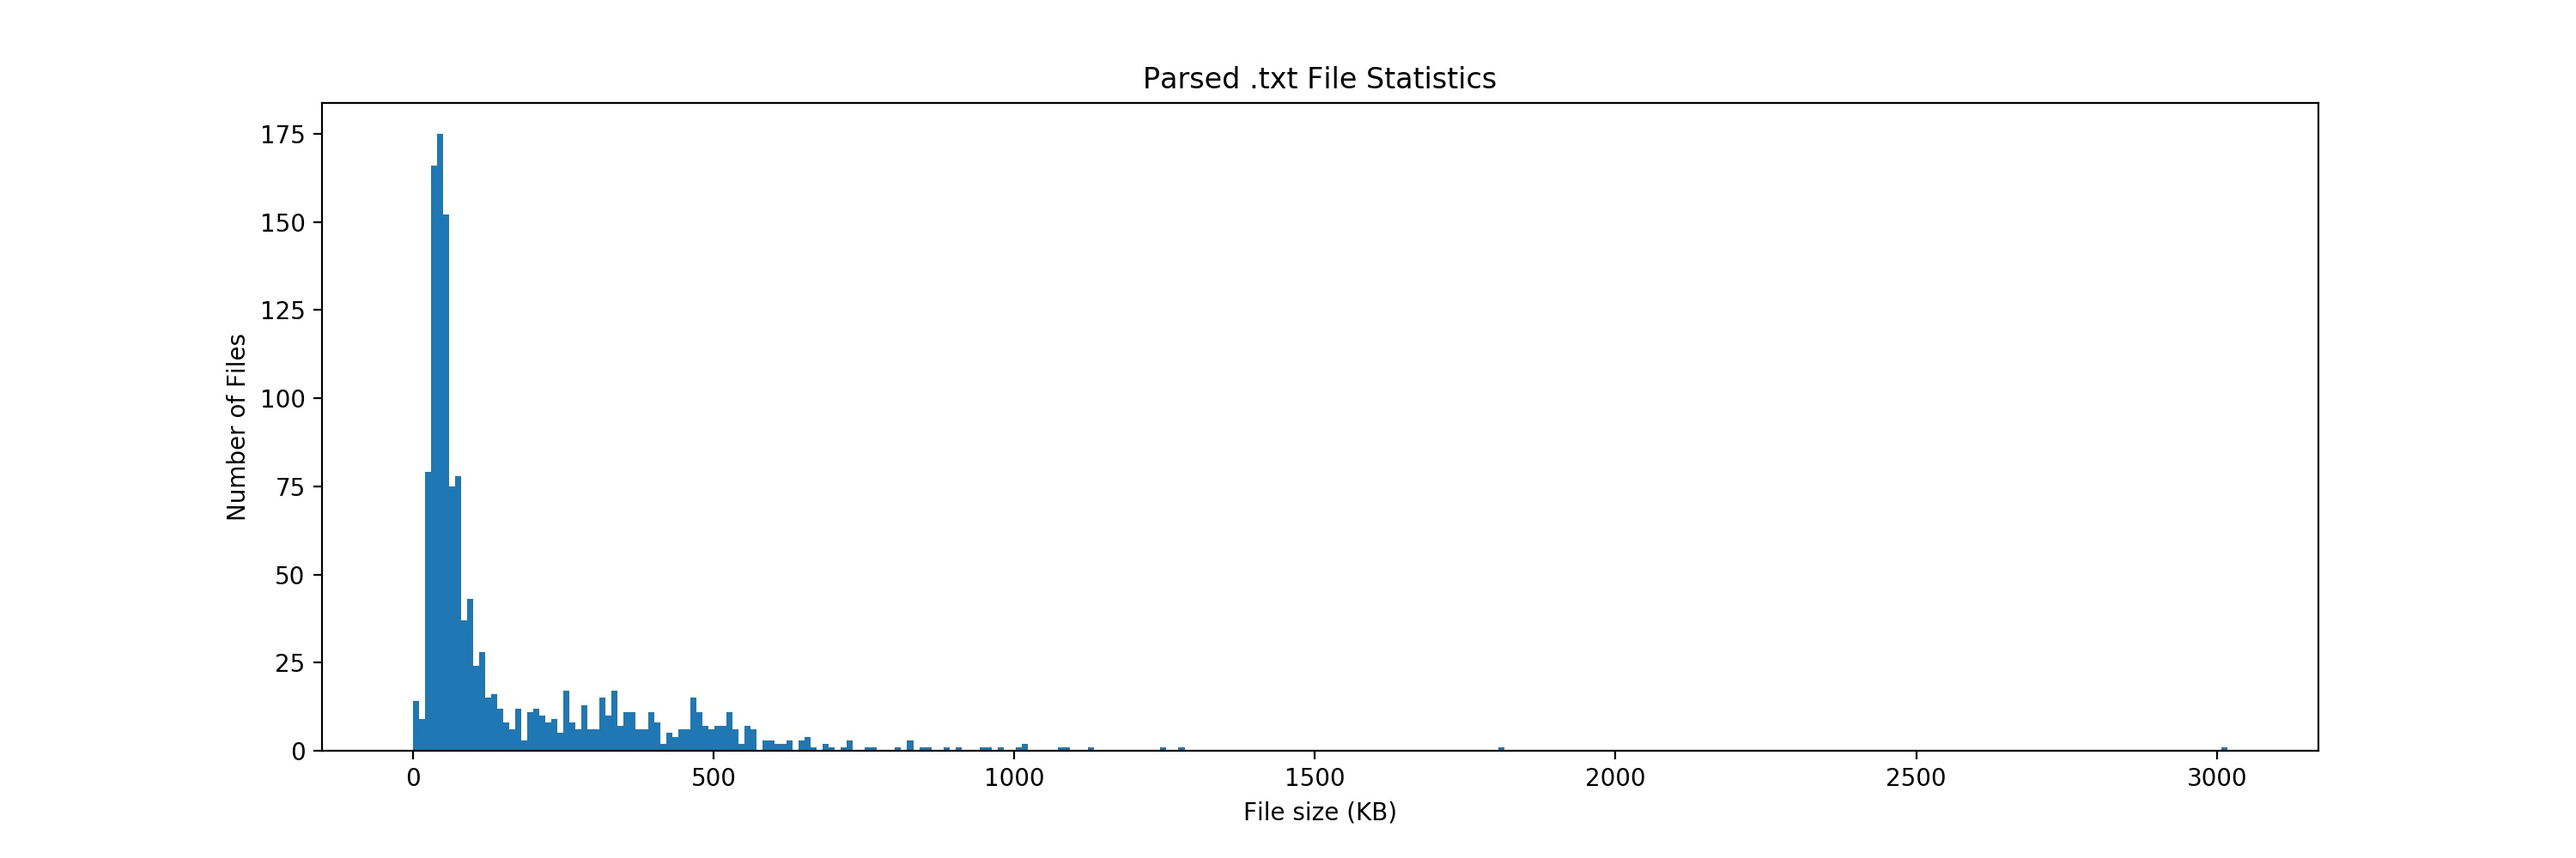
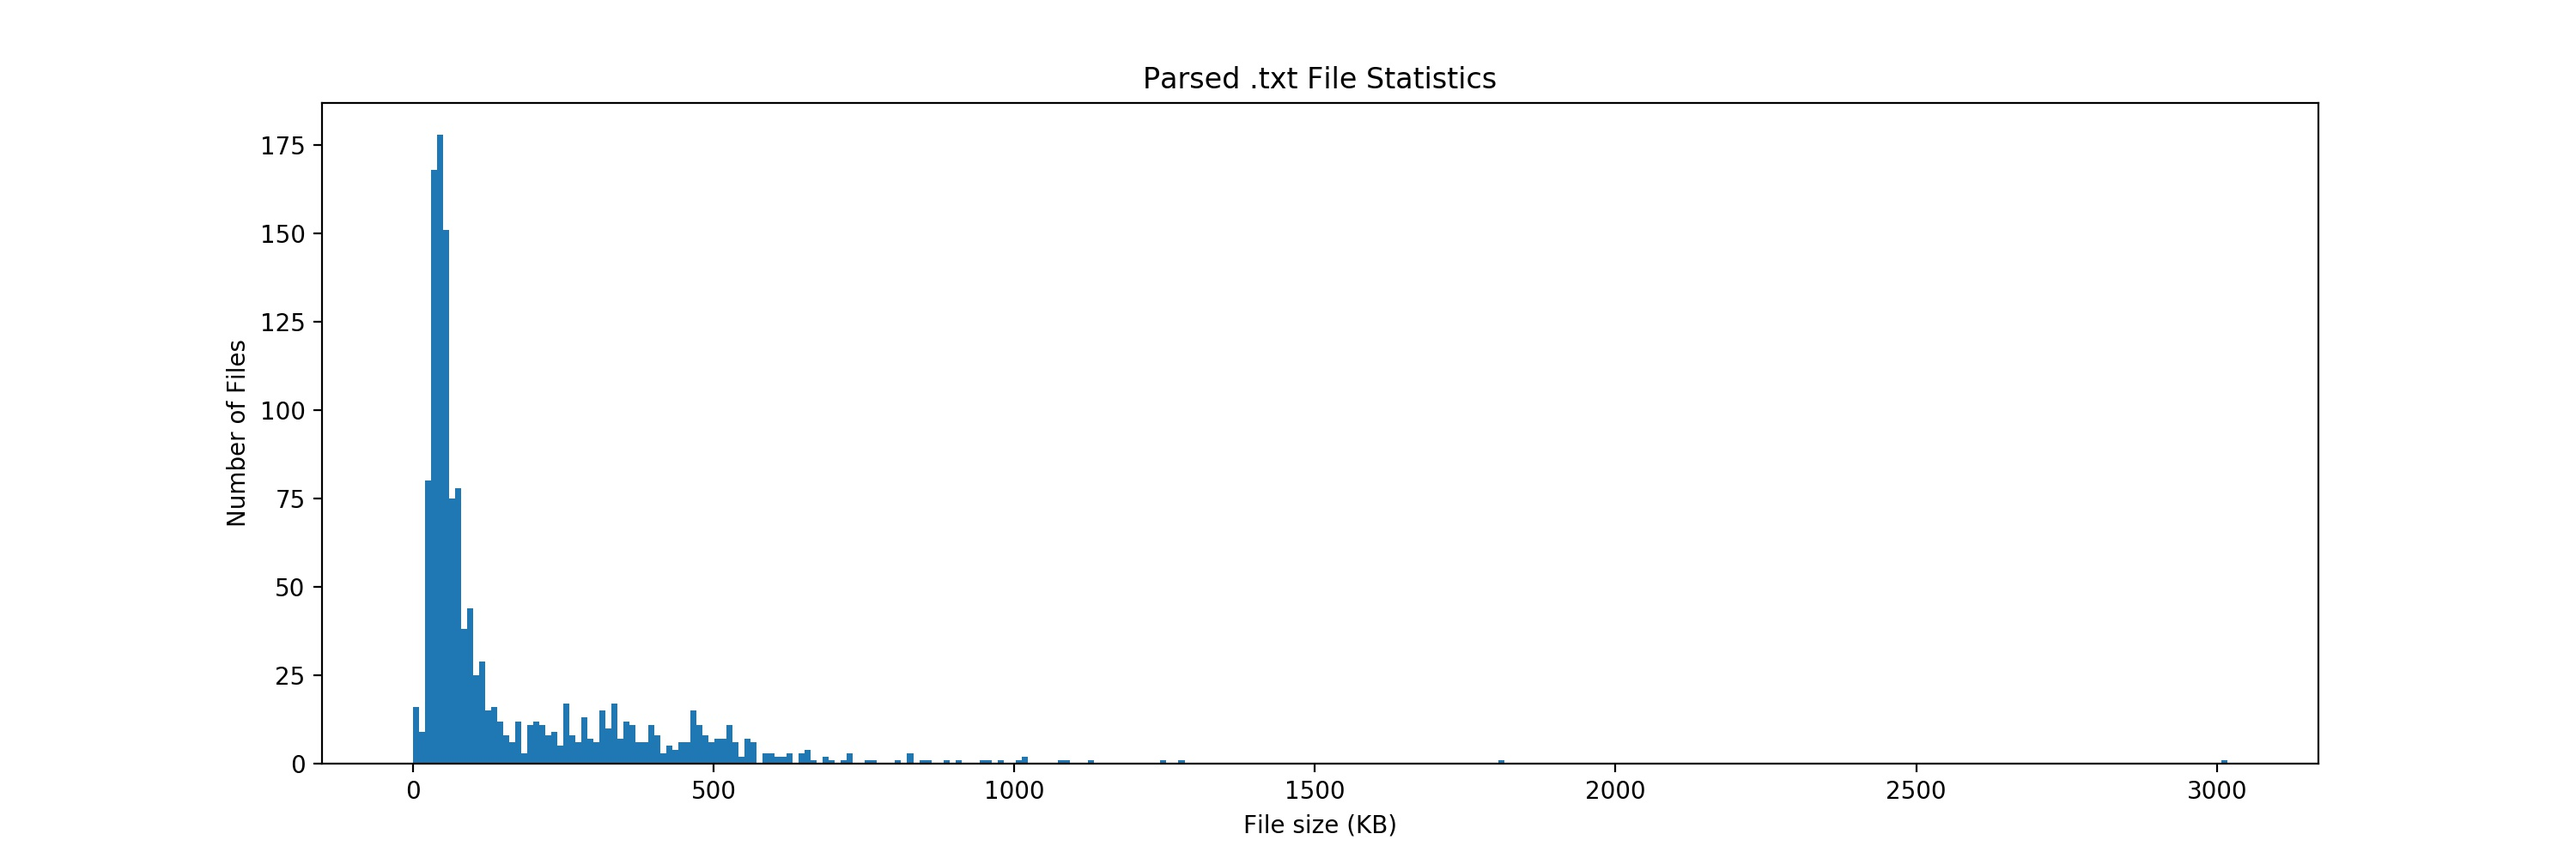
update dev-blog

diff --git a/_posts/2017-07-20-科幻小說鍊成計畫.md b/_posts/2017-07-20-科幻小說鍊成計畫.md
@@ -531,14 +531,12 @@ Git submodules重點如下：
 目前所有轉出的檔案，檔案大小分析數據及圖形如下。
 解析後的檔案大小若小於`1 KB`，我們則認定為檔案異常，並且以`logging`紀錄異常，並記錄最小正常的檔案以供檢驗。
 
-(以下待更新...)
-
 ![解析資料大小分析](/assets/images/計畫/科幻小說鍊成計畫/parsed_file_stats.jpg){: .align-center}
 
 **統計數據**
-- 正常文檔數量：1312
-- 異常文檔數量：12
-- 異常文檔比例：0.9063 %
+- 正常文檔數量：1340
+- 異常文檔數量：13
+- 異常文檔比例：0.9701 %
 
 觀察解析過後最小的正常文檔`Longevity.txt (3.34 KB)`後，發現阿就真的這麼短，想要瞬間變30CM都優秀鄉民也是很困難的。
 
